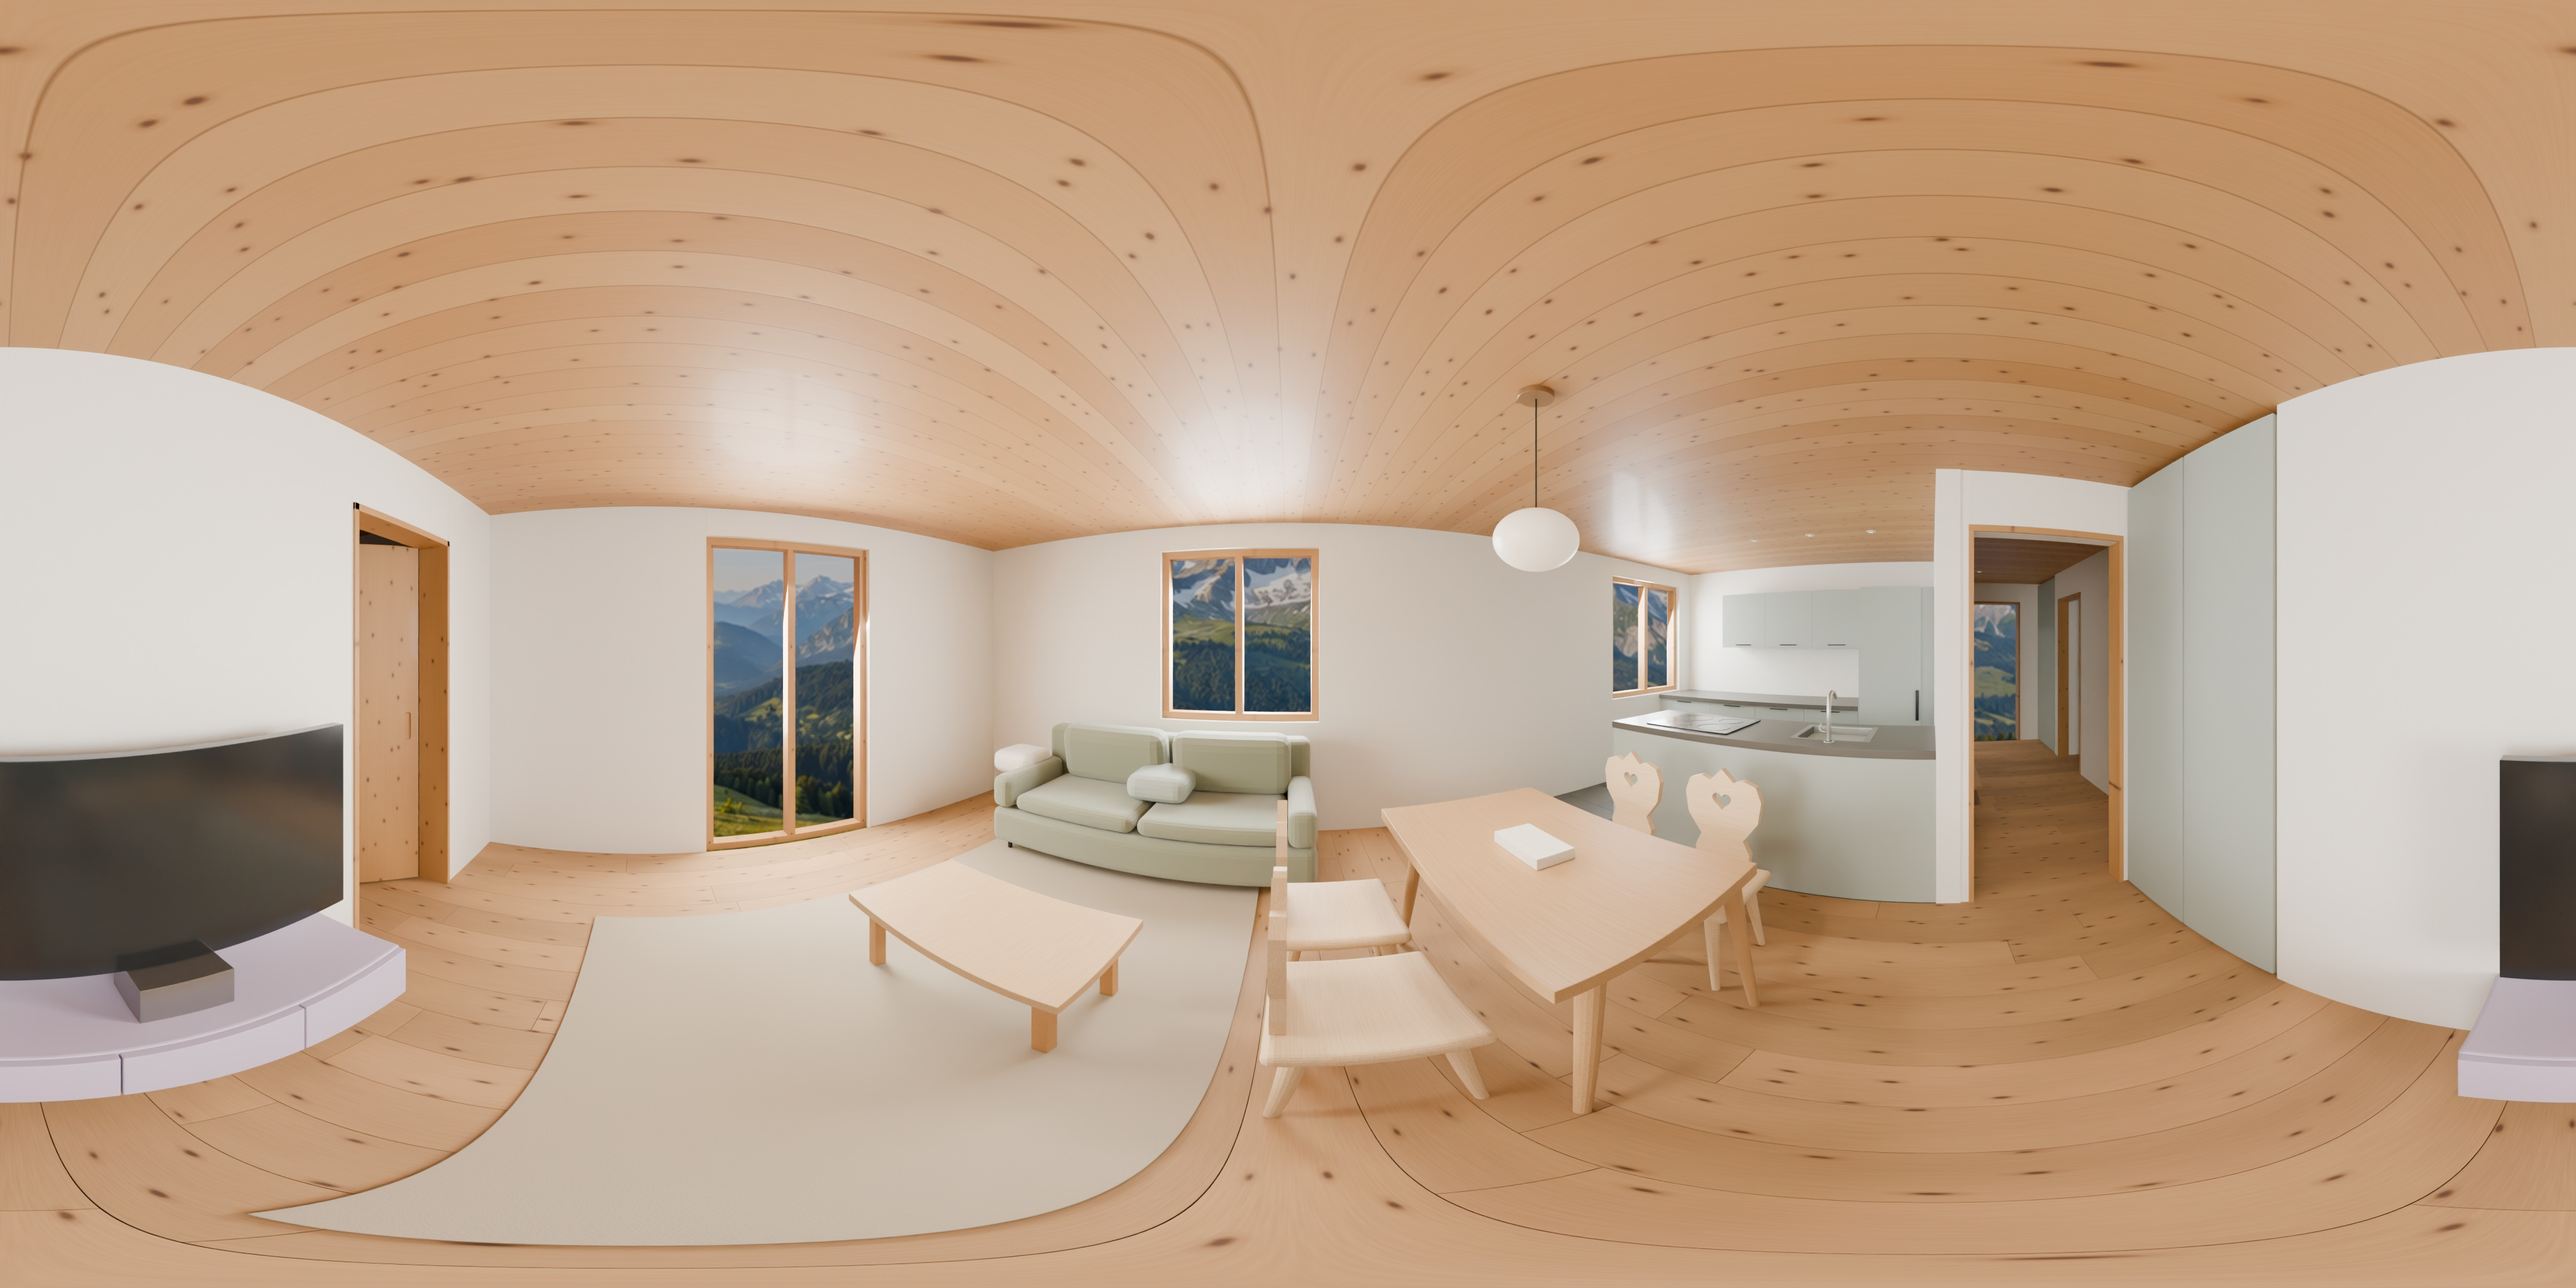
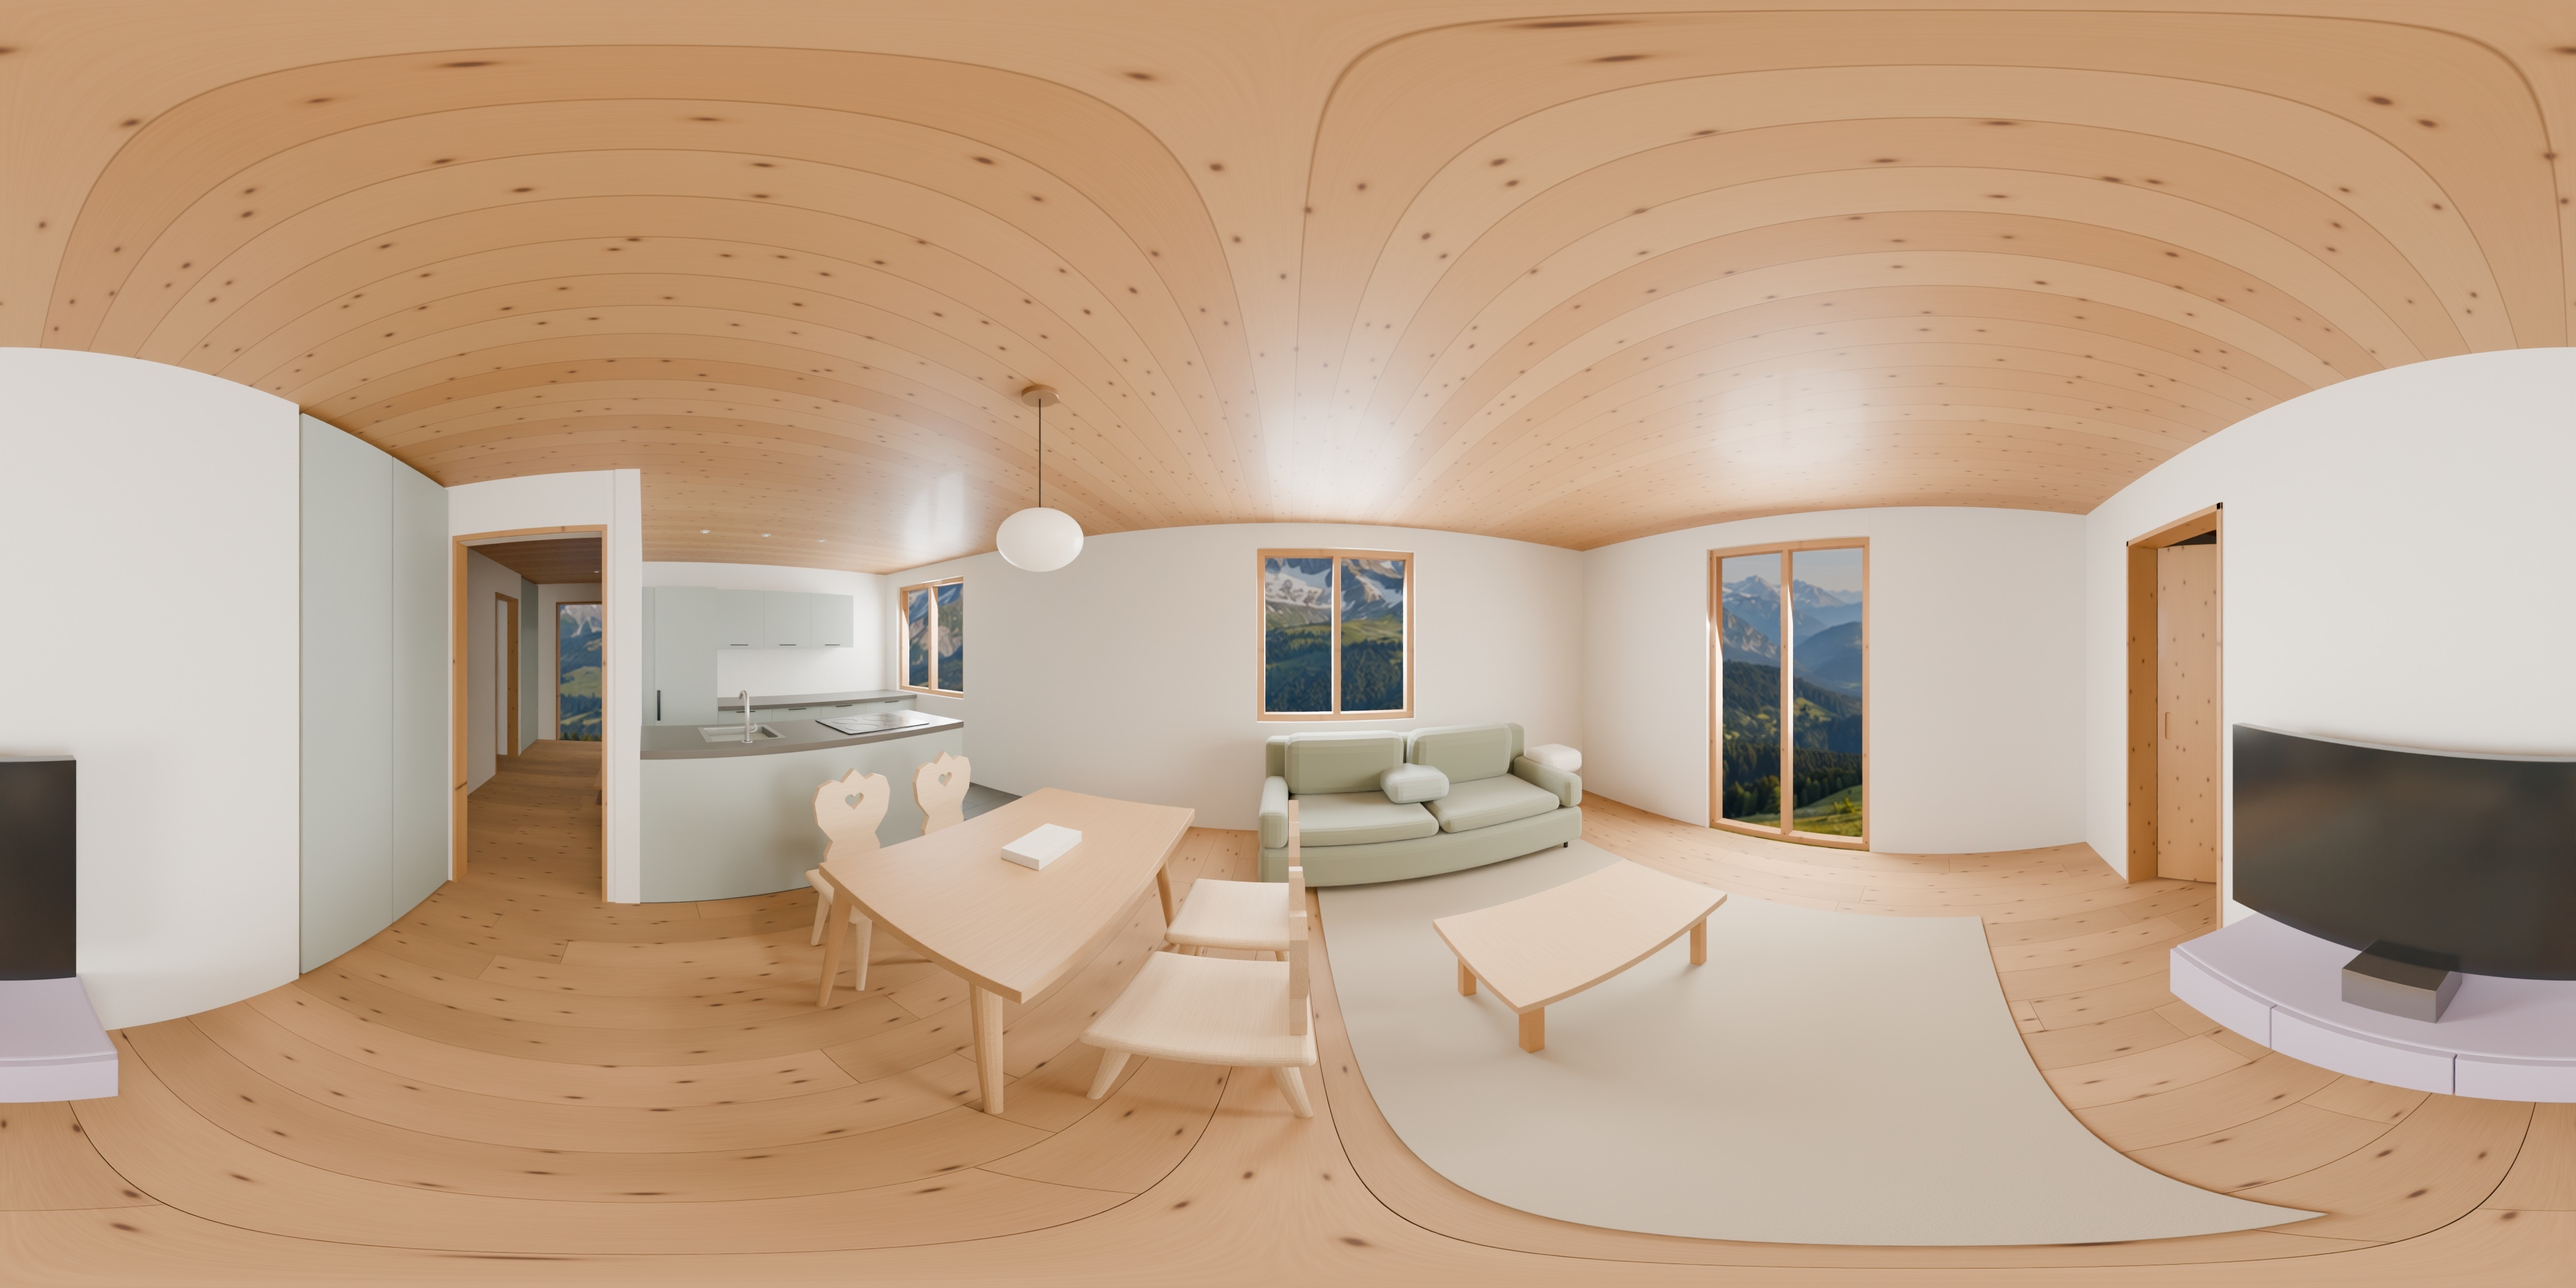
Aktuelle 4K-Panoramen für Stube, Essplatz, Küche und Flur

diff --git a/Wohnen-und-Bad-360.html b/Wohnen-und-Bad-360.html
@@ -53,12 +53,12 @@ main.expanded{position:fixed;inset:0;z-index:10;width:100vw}
 <footer id="hint">Markierungen anklicken, um weiterzugehen · Ziehen zum Umschauen · Scrollen zum Zoomen</footer>
 </main>
 <script>
-const images={"wohn-holz-schiefer":"cycles-4k-wohn-holz-schiefer.jpg","wohn-holz-parkett":"cycles-hd-wohn-holz-parkett.jpg","wohn-weiss-schiefer":"cycles-hd-wohn-weiss-schiefer.jpg","wohn-weiss-parkett":"cycles-hd-wohn-weiss-parkett.jpg","essen-holz-schiefer":"cycles-hd-essen-holz-schiefer.jpg","essen-holz-parkett":"cycles-hd-essen-holz-parkett.jpg","essen-weiss-schiefer":"cycles-hd-essen-weiss-schiefer.jpg","essen-weiss-parkett":"cycles-hd-essen-weiss-parkett.jpg","kueche-holz-schiefer":"cycles-hd-kueche-holz-schiefer.jpg","kueche-holz-parkett":"cycles-hd-kueche-holz-parkett.jpg","kueche-weiss-schiefer":"cycles-hd-kueche-weiss-schiefer.jpg","kueche-weiss-parkett":"cycles-hd-kueche-weiss-parkett.jpg","flur-holz-schiefer":"cycles-hd-flur-holz-schiefer.jpg","flur-holz-parkett":"cycles-hd-flur-holz-parkett.jpg","flur-weiss-schiefer":"cycles-hd-flur-weiss-schiefer.jpg","flur-weiss-parkett":"cycles-hd-flur-weiss-parkett.jpg","bad-holz-parkett":"cycles-hd-bad-holz-parkett.jpg","bad-holz-bestand":"cycles-hd-bad-holz-bestand.jpg","bad-holz-schiefer":"cycles-hd-bad-holz-parkett.jpg","bad-weiss-parkett":"cycles-hd-bad-weiss-parkett.jpg","bad-weiss-bestand":"cycles-hd-bad-weiss-bestand.jpg","bad-weiss-schiefer":"cycles-hd-bad-weiss-parkett.jpg"};
-const currentImages={"wohn-holz-schiefer":true};
+const images={"wohn-holz-schiefer":"cycles-4k-wohn-holz-schiefer.jpg","wohn-holz-parkett":"cycles-hd-wohn-holz-parkett.jpg","wohn-weiss-schiefer":"cycles-hd-wohn-weiss-schiefer.jpg","wohn-weiss-parkett":"cycles-hd-wohn-weiss-parkett.jpg","essen-holz-schiefer":"cycles-4k-essen-holz-schiefer.jpg","essen-holz-parkett":"cycles-hd-essen-holz-parkett.jpg","essen-weiss-schiefer":"cycles-hd-essen-weiss-schiefer.jpg","essen-weiss-parkett":"cycles-hd-essen-weiss-parkett.jpg","kueche-holz-schiefer":"cycles-4k-kueche-holz-schiefer.jpg","kueche-holz-parkett":"cycles-hd-kueche-holz-parkett.jpg","kueche-weiss-schiefer":"cycles-hd-kueche-weiss-schiefer.jpg","kueche-weiss-parkett":"cycles-hd-kueche-weiss-parkett.jpg","flur-holz-schiefer":"cycles-4k-flur-holz-schiefer.jpg","flur-holz-parkett":"cycles-hd-flur-holz-parkett.jpg","flur-weiss-schiefer":"cycles-hd-flur-weiss-schiefer.jpg","flur-weiss-parkett":"cycles-hd-flur-weiss-parkett.jpg","bad-holz-parkett":"cycles-hd-bad-holz-parkett.jpg","bad-holz-bestand":"cycles-hd-bad-holz-bestand.jpg","bad-holz-schiefer":"cycles-hd-bad-holz-parkett.jpg","bad-weiss-parkett":"cycles-hd-bad-weiss-parkett.jpg","bad-weiss-bestand":"cycles-hd-bad-weiss-bestand.jpg","bad-weiss-schiefer":"cycles-hd-bad-weiss-parkett.jpg"};
+const currentImages={"wohn-holz-schiefer":true,"essen-holz-schiefer":true,"kueche-holz-schiefer":true,"flur-holz-schiefer":true};
 const main=document.querySelector('main'),canvas=document.querySelector('canvas');
 const fallback=document.querySelector('.fallback');
 const gl=canvas.getContext('webgl',{alpha:false,antialias:false});
-const starts={wohn:[-1.01,-.13],essen:[-2.30,-.13],kueche:[3.11,-.21],flur:[-1.44,-.11],bad:[.49,-.39]};
+const starts={wohn:[-1.01,-.13],essen:[-2.30,-.13],kueche:[3.11,-.21],flur:[-.32,-.24],bad:[.49,-.39]};
 const positions={wohn:[5.42,6.20],essen:[7.78,4.80],kueche:[7.92,2.92],flur:[4.84,2.85],bad:[5.69,.77]};
 const routes={
  wohn:[['essen',7.53,4.85,.79],['flur',4.86,4.20,.83]],
@@ -126,11 +126,14 @@ function select(next,material,heading){
  if(moved||!markers.length)makeMarkers();
  for(const {button} of markers)button.hidden=true;
  finish=material;
+ const bathPair=['parkett','bestand'].every(b=>currentImages['bad-'+finish+'-'+b]);
+ if(!bathPair&&bathFloor==='bestand')bathFloor='neu';
+ document.querySelector('[data-bathfloor="bestand"]').textContent=bathPair?'Bad Bestand':'Bestandsboden live';
  document.querySelectorAll('[data-room]').forEach(b=>b.setAttribute('aria-pressed',b.dataset.room===room));
  document.querySelectorAll('[data-finish]').forEach(b=>b.setAttribute('aria-pressed',b.dataset.finish===finish));
  document.querySelectorAll('[data-floor]').forEach(b=>b.setAttribute('aria-pressed',b.dataset.floor===floor));
  document.querySelectorAll('[data-bathfloor]').forEach(b=>b.setAttribute('aria-pressed',b.dataset.bathfloor===bathFloor));
- document.querySelector('#live').href='Rundgang-Live.html?room='+room;
+ document.querySelector('#live').href='Rundgang-Live.html?room='+room+(room==='bad'?'&bath='+bathFloor:'');
  const key=room==='bad'&&bathFloor==='bestand'?'bad-'+finish+'-bestand':room+'-'+finish+'-'+floor;
  const url=images[key],current=++revision;
  const badge=document.querySelector('#render-state');
@@ -194,7 +197,14 @@ if(gl){
 document.querySelectorAll('[data-room]').forEach(b=>b.onclick=()=>select(b.dataset.room,finish));
 document.querySelectorAll('[data-finish]').forEach(b=>b.onclick=()=>select(room,b.dataset.finish));
 document.querySelectorAll('[data-floor]').forEach(b=>b.onclick=()=>{floor=b.dataset.floor;select(room,finish);});
-document.querySelectorAll('[data-bathfloor]').forEach(b=>b.onclick=()=>{bathFloor=b.dataset.bathfloor;select(room,finish);});
+document.querySelectorAll('[data-bathfloor]').forEach(b=>b.onclick=()=>{
+ if(b.dataset.bathfloor==='bestand'&&!['parkett','bestand'].every(b=>currentImages['bad-'+finish+'-'+b])){
+   location.href='Rundgang-Live.html?room=bad&bath=bestand';
+   return;
+ }
+ bathFloor=b.dataset.bathfloor;
+ select('bad',finish);
+});
 document.querySelector('#reset').onclick=reset;
 const expand=document.querySelector('#expand');
 function fullLabel(){

diff --git a/Rundgang-Live.html b/Rundgang-Live.html
@@ -202,7 +202,7 @@ const views={
  Bad:[6.87,.91,.44,1.27,.35,4.4,0,1.73],
  Draufsicht:[4.3,4.5,0,Math.PI/2,0,10.4,0,9]
 };
-const walkSettings={"wohn":[5.42,6.2,-1.01,-0.13],"essen":[7.78,4.8,-2.3,-0.13],"kueche":[7.92,2.92,3.11,-0.21],"flur":[4.84,2.85,-1.44,-0.11],"bad":[5.69,0.77,0.49,-0.39]};
+const walkSettings={"wohn":[5.42,6.2,-1.01,-0.13],"essen":[7.78,4.8,-2.3,-0.13],"kueche":[7.92,2.92,3.11,-0.21],"flur":[4.84,2.85,-0.32,-0.24],"bad":[5.69,0.77,0.49,-0.39]};
 const walkViews=typeof walkSettings==='undefined'?{}:walkSettings;
 const walkRooms=Object.keys(walkViews);
 const routes={
@@ -381,6 +381,10 @@ const choiceRoot=document.querySelector('#choices');
 const configKey='fw-raum-materialien';
 let preferences={};
 try{preferences=JSON.parse(window.localStorage.getItem(configKey))??{};}catch{}
+if(walking){
+ const bath=new URLSearchParams(location.search).get('bath');
+ if(bath==='bestand'||bath==='neu')preferences['bath-tile']=bath;
+}
 
 function chooser(id,label,values,initial,changed,description=''){
  const wrapper=document.createElement('label');wrapper.className='choice';wrapper.textContent=label;
